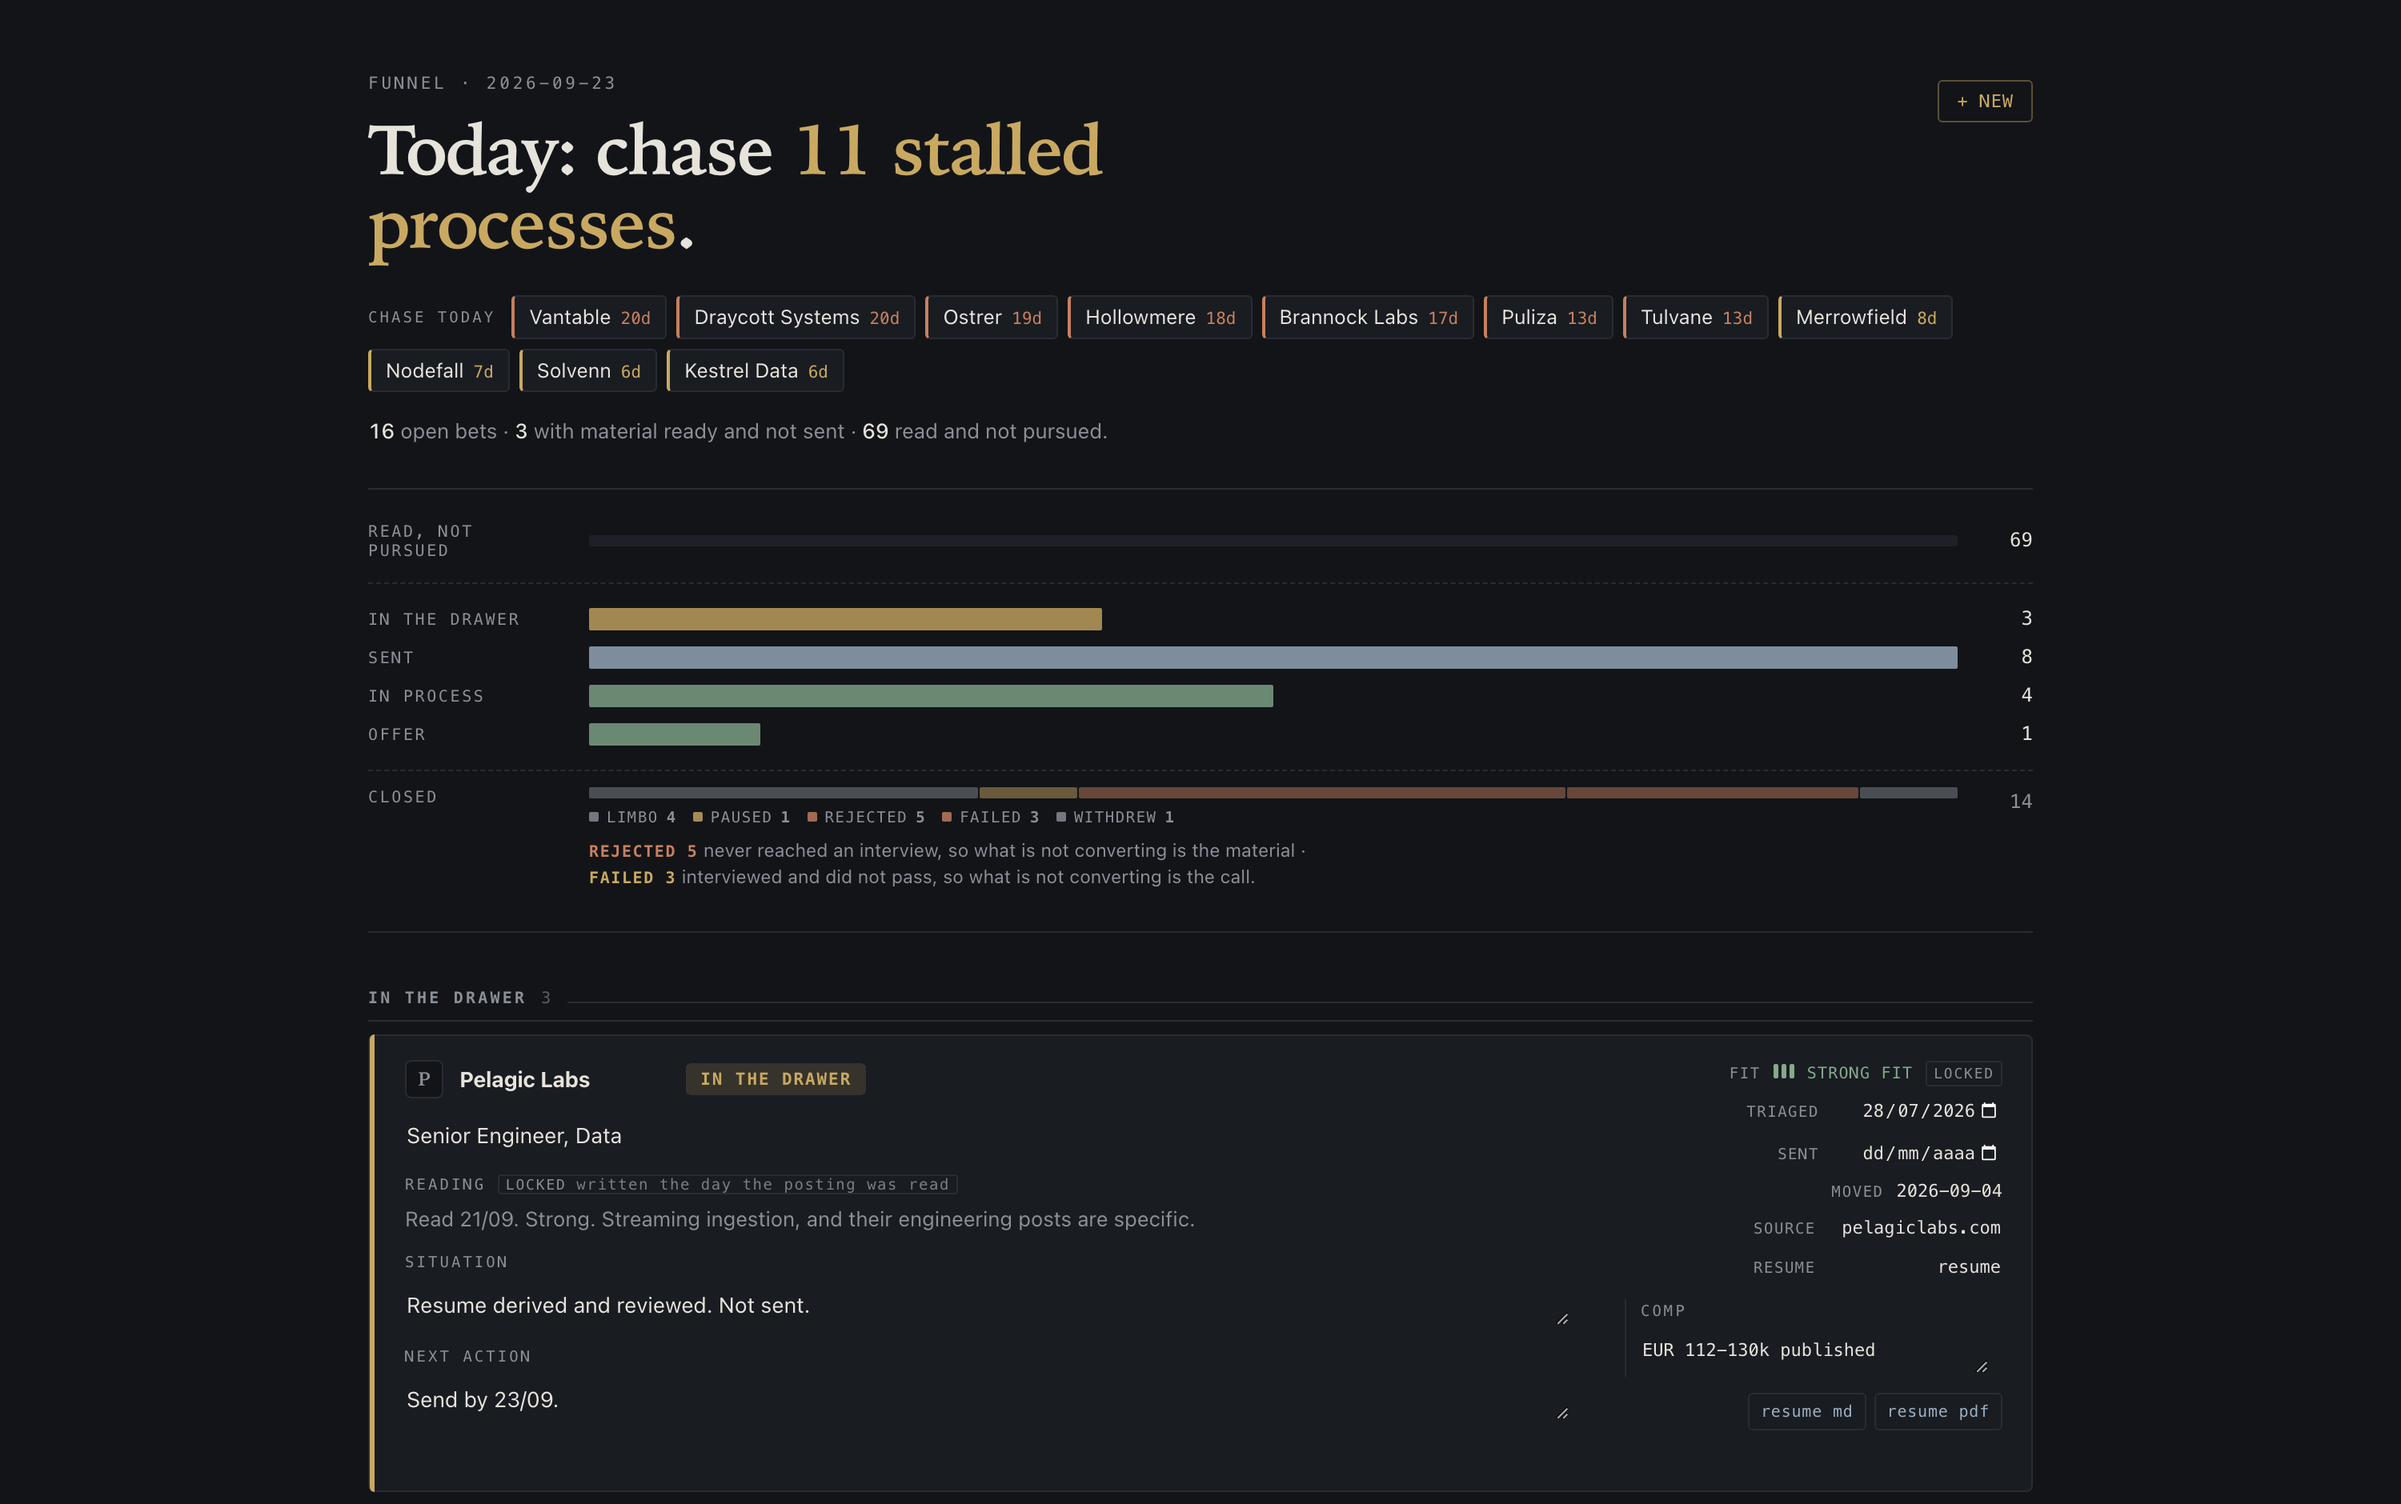
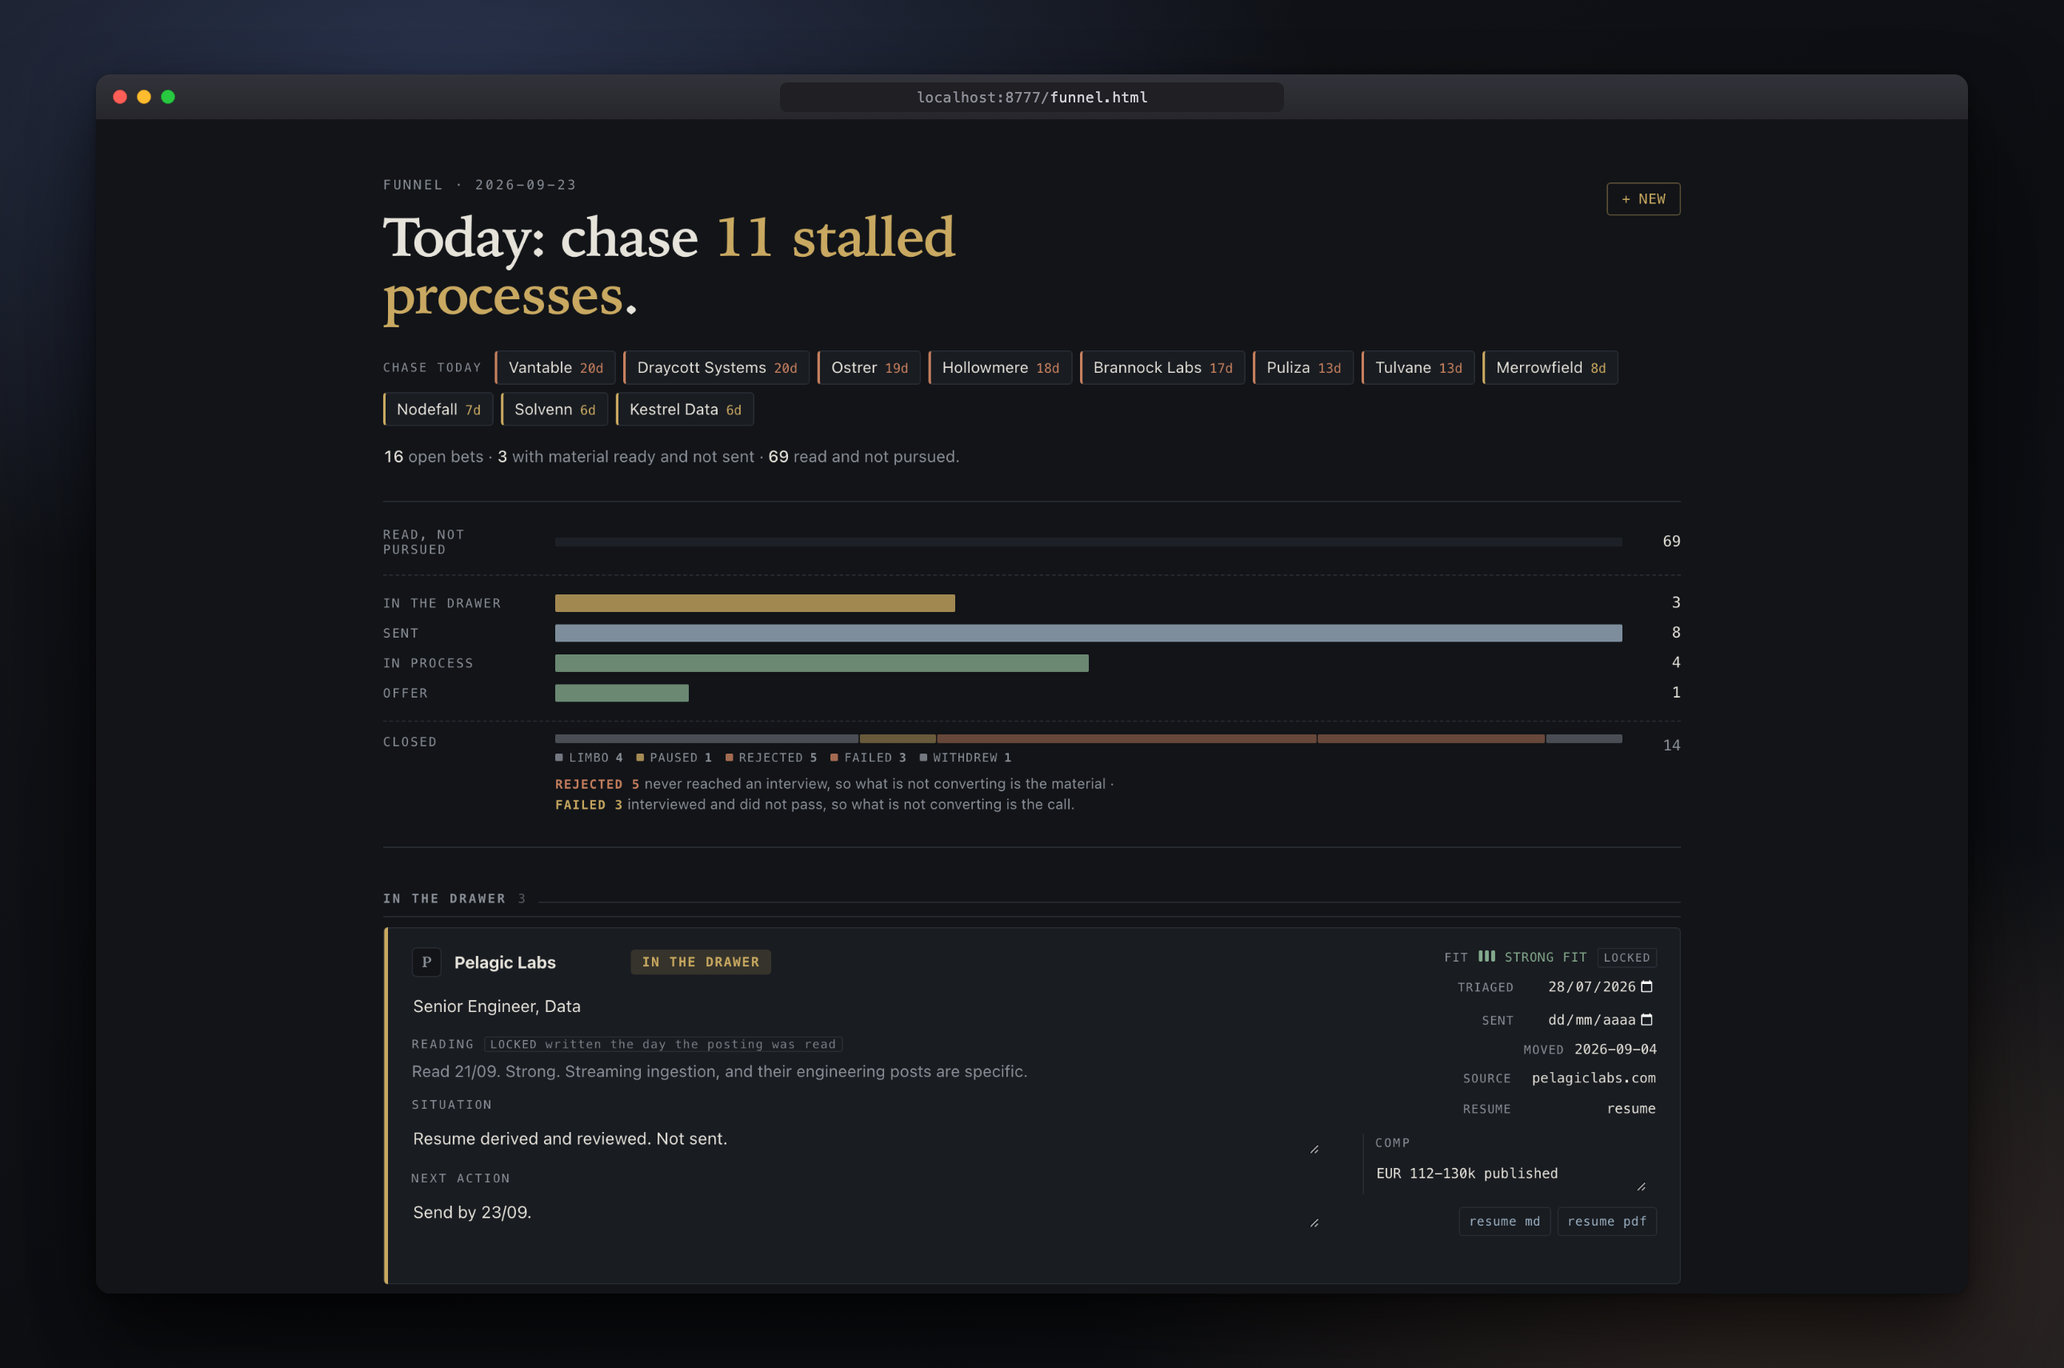
docs: lead both readmes with a framed screenshot of the funnel page

diff --git a/tools/mock_frame.html b/tools/mock_frame.html
@@ -1,0 +1,62 @@
+<!doctype html>
+<html><head><meta charset="utf-8"><style>
+  * { margin:0; padding:0; box-sizing:border-box; }
+  body {
+    width: 1720px; height: 1140px;
+    display: grid; place-items: center;
+    background:
+      radial-gradient(1200px 700px at 22% 8%, #2b3550 0%, transparent 60%),
+      radial-gradient(1000px 640px at 86% 92%, #3a2f2a 0%, transparent 58%),
+      linear-gradient(150deg, #14161c 0%, #0d0f13 55%, #101319 100%);
+    font: 13px/1 -apple-system, BlinkMacSystemFont, "SF Pro Text", "Helvetica Neue", sans-serif;
+  }
+  .window {
+    width: 1560px;
+    border-radius: 12px;
+    overflow: hidden;
+    background: #1b1b1f;
+    box-shadow:
+      0 1px 0 rgba(255,255,255,.07) inset,
+      0 2px 6px rgba(0,0,0,.30),
+      0 22px 50px rgba(0,0,0,.50),
+      0 60px 120px rgba(0,0,0,.45);
+  }
+  .bar {
+    height: 38px;
+    display: grid;
+    grid-template-columns: 1fr auto 1fr;
+    align-items: center;
+    padding: 0 14px;
+    background: linear-gradient(#32323a, #26262c);
+    border-bottom: 1px solid #17171b;
+  }
+  .lights { display: flex; gap: 8px; }
+  .lights i {
+    width: 12px; height: 12px; border-radius: 50%; display: block;
+    box-shadow: 0 0 0 .5px rgba(0,0,0,.35) inset;
+  }
+  .r { background: #ff5f57; } .y { background: #febc2e; } .g { background: #28c840; }
+  .addr {
+    justify-self: center;
+    min-width: 420px; max-width: 520px;
+    text-align: center;
+    padding: 4px 14px;
+    border-radius: 6px;
+    background: #1f1f24;
+    color: #8f8f99;
+    font: 12px/1.4 ui-monospace, SFMono-Regular, Menlo, monospace;
+    letter-spacing: .2px;
+  }
+  .addr b { color: #cfcfd6; font-weight: 500; }
+  img { display: block; width: 100%; }
+</style></head>
+<body>
+  <div class="window">
+    <div class="bar">
+      <div class="lights"><i class="r"></i><i class="y"></i><i class="g"></i></div>
+      <div class="addr">localhost:8777/<b>funnel.html</b></div>
+      <div></div>
+    </div>
+    <img src="shot.png">
+  </div>
+</body></html>

diff --git a/README.pt-br.md b/README.pt-br.md
@@ -4,6 +4,11 @@
 
 > Este repositório replica o processo que eu rodei na prática pra conseguir minha primeira vaga internacional. Toda regra aqui dentro ganhou o lugar dela falhando antes, e os incidentes datados espalhados pelo método são essas falhas, minhas.
 
+![A página do funil, com uma busca em andamento](assets/funnel.png)
+
+*Trinta candidaturas, sessenta e nove anúncios lidos e não perseguidos. Essa proporção é a forma de uma busca de verdade, e a página mostra em vez de esconder.*
+
+
 Busca de vaga rodando como sistema, com um agente de IA trabalhando junto. Achar vaga, julgar se presta, escrever o material, revisar antes de mandar, preparar cada etapa de entrevista, negociar a oferta, e manter um funil que não mente sobre o próprio estado.
 
 Funciona com Claude Code, Codex, ou qualquer agente que leia markdown.
@@ -100,10 +105,6 @@ Estão no `method/rules.md`, cada uma com a falha datada que a gerou. Resumindo.
 ```bash
 python3 tools/serve.py
 ```
-
-![A página do funil, com uma busca em andamento](assets/funnel.png)
-
-Trinta candidaturas, sessenta e nove anúncios lidos e não perseguidos, e uma manchete que diz pra que serve o dia de hoje. Essa proporção é a forma de uma busca de verdade, e a página foi feita pra mostrar isso em vez de esconder.
 
 Abre uma página local em `localhost:8777`. Status, situação e próxima ação editáveis na própria página, salvando direto no `applications/applications.json`. Sem banco, sem conta, nada sai da tua máquina.
 

diff --git a/README.md b/README.md
@@ -4,6 +4,11 @@
 
 > This repository replicates the process I actually ran to land my first international job. Every rule in it earned its place by failing first, and the dated incidents throughout the method are the failures, mine.
 
+![The funnel page, with a search in progress](assets/funnel.png)
+
+*Thirty applications, sixty-nine postings read and not pursued. That ratio is the shape of a real search, and the page shows it rather than hiding it.*
+
+
 A job search run as a system, with an AI coding agent doing the work alongside you. Find openings, judge them, write the application material, review it before it goes out, prepare each interview stage, negotiate the offer, and keep a funnel that never lies to you about its own state.
 
 Works with Claude Code, Codex, or anything that reads markdown.
@@ -100,10 +105,6 @@ They are in `method/rules.md`, each with the dated failure that produced it. In 
 ```bash
 python3 tools/serve.py
 ```
-
-![The funnel page, with a search in progress](assets/funnel.png)
-
-Thirty applications, sixty-nine postings read and not pursued, and a headline that tells you what today is for. That ratio is the shape of a real search, and the page is built to show it rather than hide it.
 
 Opens a local page at `localhost:8777`. Status, situation and next action are editable in place and save straight back to `applications/applications.json`. No database, no account, nothing leaves your machine.
 
